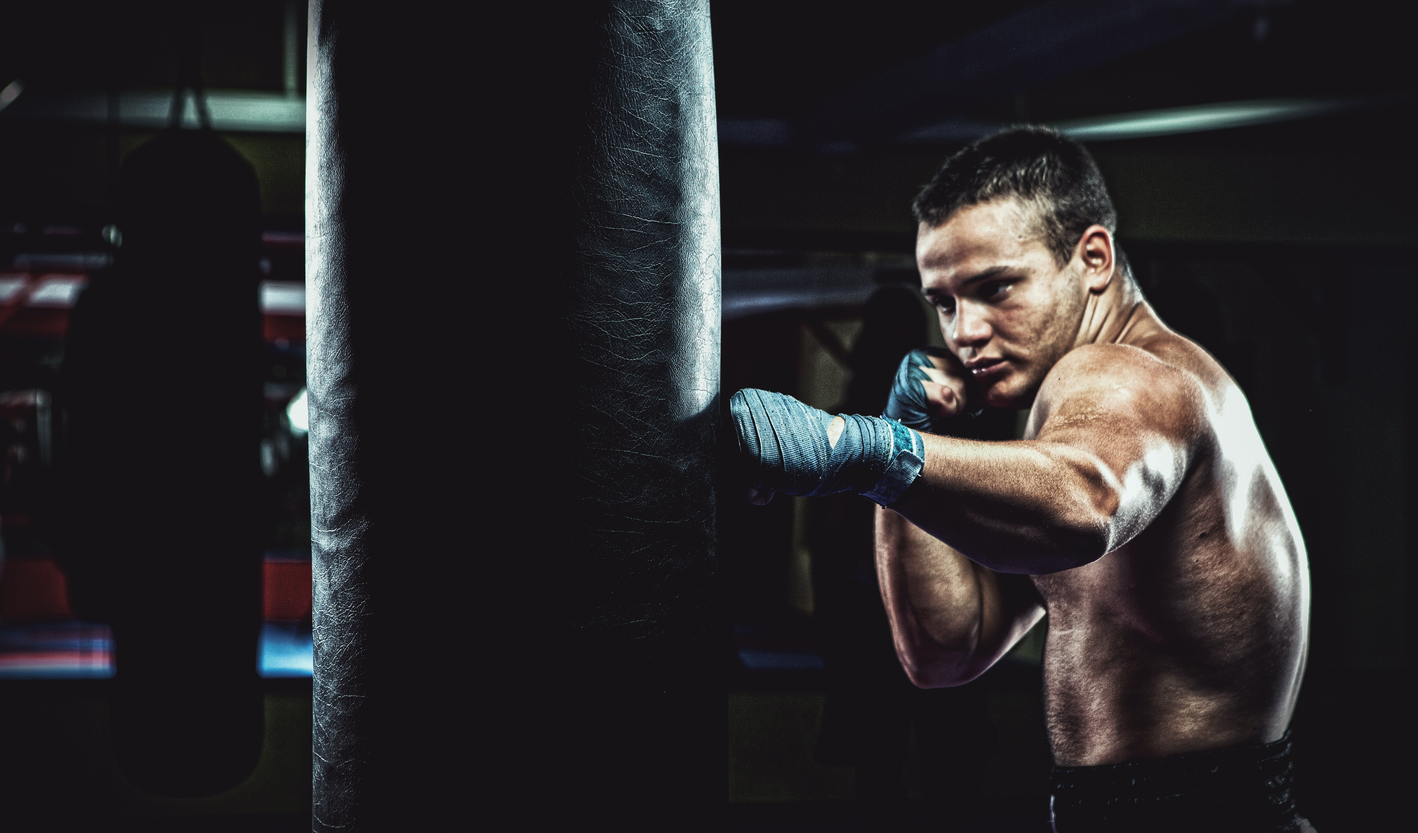
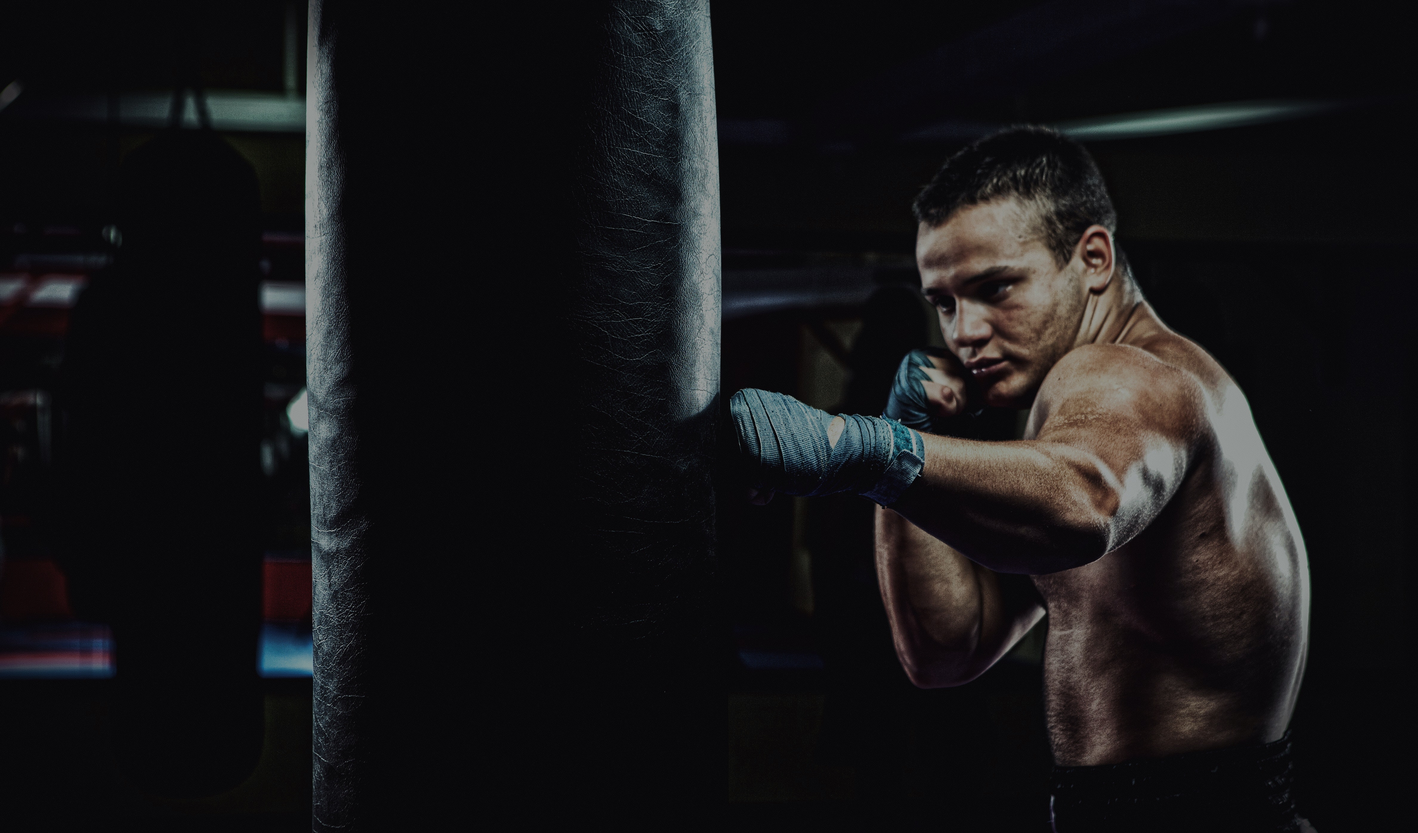
Color + Subheaders on Hero
Changed the color on hero images and added subheaders to the carousel.

diff --git a/index.html b/index.html
@@ -83,14 +83,17 @@
             <div class="carousel-inner">
               <div class="carousel-item active">
                 <h1 class="main-title">Atlanta Underground Film Festival</h1>
+                <h2 class="carousel-caption">September 16-19, 2020</h2>
                 <img src="images/patrick-perkins-DP4dLbZdybA-unsplash.jpg" class="d-block w-100 carousel-image" alt="...">
               </div>
               <div class="carousel-item">
                 <h1 class="main-title">Atlanta Horror Fest</h1>
+                <h2 class="carousel-caption">October 15-17, 2020</h2>
                 <img src="images/photo-1572527561845-bf58d45376bc.jpeg" class="d-block w-100 carousel-image" alt="...">
               </div>
               <div class="carousel-item">
                 <h1 class="main-title">Atlanta Shortsfest</h1>
+                <h2 class="carousel-caption">October 20-21, 2021</h2>
                 <img src="images/freestocks-CH6-cfiY2Yo-unsplash.jpg" class="d-block w-100 carousel-image" alt="...">
               </div>
             </div>
@@ -105,42 +108,31 @@
           </div>
            <!---carousel ends here-->
     </div>
-     
-
    <div class="container-grid">
            <div class="row">
-                 <img class="grid-image col-lg-6 col-md-6 col-sm-12" src="images/zorik-d-1hqKq6uJjUM-unsplash.jpg">
-                 <div class="card card-horror-hmpg">
-                  <div class="card-body">
-                    <h5 class="card-title">Upcoming HorrorFest</h5>
-                    <p class="card-text"><a href="horrorfest-about.html">HorrorFest 2020</a></p>
-                  </div>
-                </div>
-                 <div class="col-lg-6 col-md-6 col-sm-12">
-                 <!-- <img class="grid-image" src="images/Screen Shot 2020-09-22 at 11.40.07 AM.png"> -->
-                    <div class="card">
+                <div class="card col-lg-6 col-md-6 col-sm-12">
+                  <!-- <img class="grid-image" src="images/Screen Shot 2020-09-22 at 11.40.07 AM.png"> -->
                       <div class="card-body">
-                        <h5 class="card-title">About ATL Film Series</h5>
+                        <h2 class="card-title">About ATL Film Series</h2>
                         <p class="card-text">The ATL Film Series is four separate festivals held annually: The Atlanta Shortfest, The Atlanta Undergroud Film Festival, The Atlanta Docufest, and The Atlanta Horror Festival.</p>
                       </div>
-                    </div>
-               </div>
-            </div>
-
-            <div class="row">
-                <div class="col-lg-6 col-md-6 col-sm-12">
-                  <!-- <img class="grid-image" src="images/Screen Shot 2020-09-22 at 11.40.07 AM.png"> -->
-                  <div class="card">
-                    <div class="card-body">
-                      <h5 class="card-title">Contact Us</h5>
-                      <p class="card-text">Want to volunteer? Have questions?</p>
-
-                       <p class="card-text"> Email us: atlfilmseries@gmail.com</p>
-                    </div>
-                  </div>
                 </div>
-                  <img class="grid-image col-lg-6 col-md-6 col-sm-12" src="images/Screen Shot 2020-09-22 at 11.40.38 AM.png">
-             </div>
+                 <div class="card col-lg-6 col-md-6 col-sm-12" id="horror-homepage">
+                  <div class="card-body">
+                    <h2 class="card-title">Upcoming HorrorFest</h2>
+                    <p class="card-text"><a href="horrorfest-about.html">HorrorFest 2020</a></p>
+                  </div>
+            </div>
+            <div class="row col-12">
+              <div class="card col-lg-6 col-md-6 col-sm-12" id="home-image">
+              </div>
+               <div class="card col-lg-6 col-md-6 col-sm-12">
+                <div class="card-body">
+                  <h2 class="card-title">Contact Us</h2>
+                  <p class="card-text">Want to volunteer? Have questions?</p>
+                  <p class="card-text"> Email us: atlfilmseries@gmail.com</p>
+                </div>
+          </div>
    </div>
 
 

diff --git a/css/index.css b/css/index.css
@@ -1,10 +1,6 @@
 
-.grid-image{
-    /* width: 90%; */
-    object-fit: cover;
-    padding-left: 0 !important;
-    padding-right: 0 !important;
-    /* margin-left: 14%; */
+.row{
+    margin: 0px
 }
 
 .carousel-image{
@@ -12,6 +8,12 @@
     object-fit: cover;
     font-size: 80px;
     font-family: 'Playfair Display', serif;
+}
+
+.carousel-caption{
+    text-decoration: none;
+    font-family: 'Mukta Mahee', sans-serif;
+    color: white;
 }
 
 .main-title{
@@ -30,6 +32,16 @@
     margin-top: 7%;
 }
 
+#horror-homepage {
+    background-image: url(../images/zorik-d-1hqKq6uJjUM-unsplash.jpg);
+    background-size: cover;
+}
+
+#home-image{
+    background-image: url(../images/Screen\ Shot\ 2020-09-22\ at\ 11.40.38\ AM.png);
+    background-size: cover;
+    width: 100%;
+}
 .card-text{
     font-family: 'Mukta Mahee', sans-serif;
     font-size: 12pt;
@@ -37,19 +49,21 @@
     margin-top: 7%;
 }
 
-.card-horror-hmpg{
-    position: absolute;
-    margin-top: 13%;
-    margin-left: 15%;
-}
 .card{
     border-color: transparent;
     border-radius: 0px;
 }
 
+.card-body{
+    background-color: white;
+    box-shadow: 0 3px 12px rgba(0, 0, 0, 0.15);
+    height: auto;
+    margin: 15%;
+}
 .footer{
     background-color:#2E2E3A;
     padding: 50px;
+    width: 100%;
 }
 
 .footer-logo{
